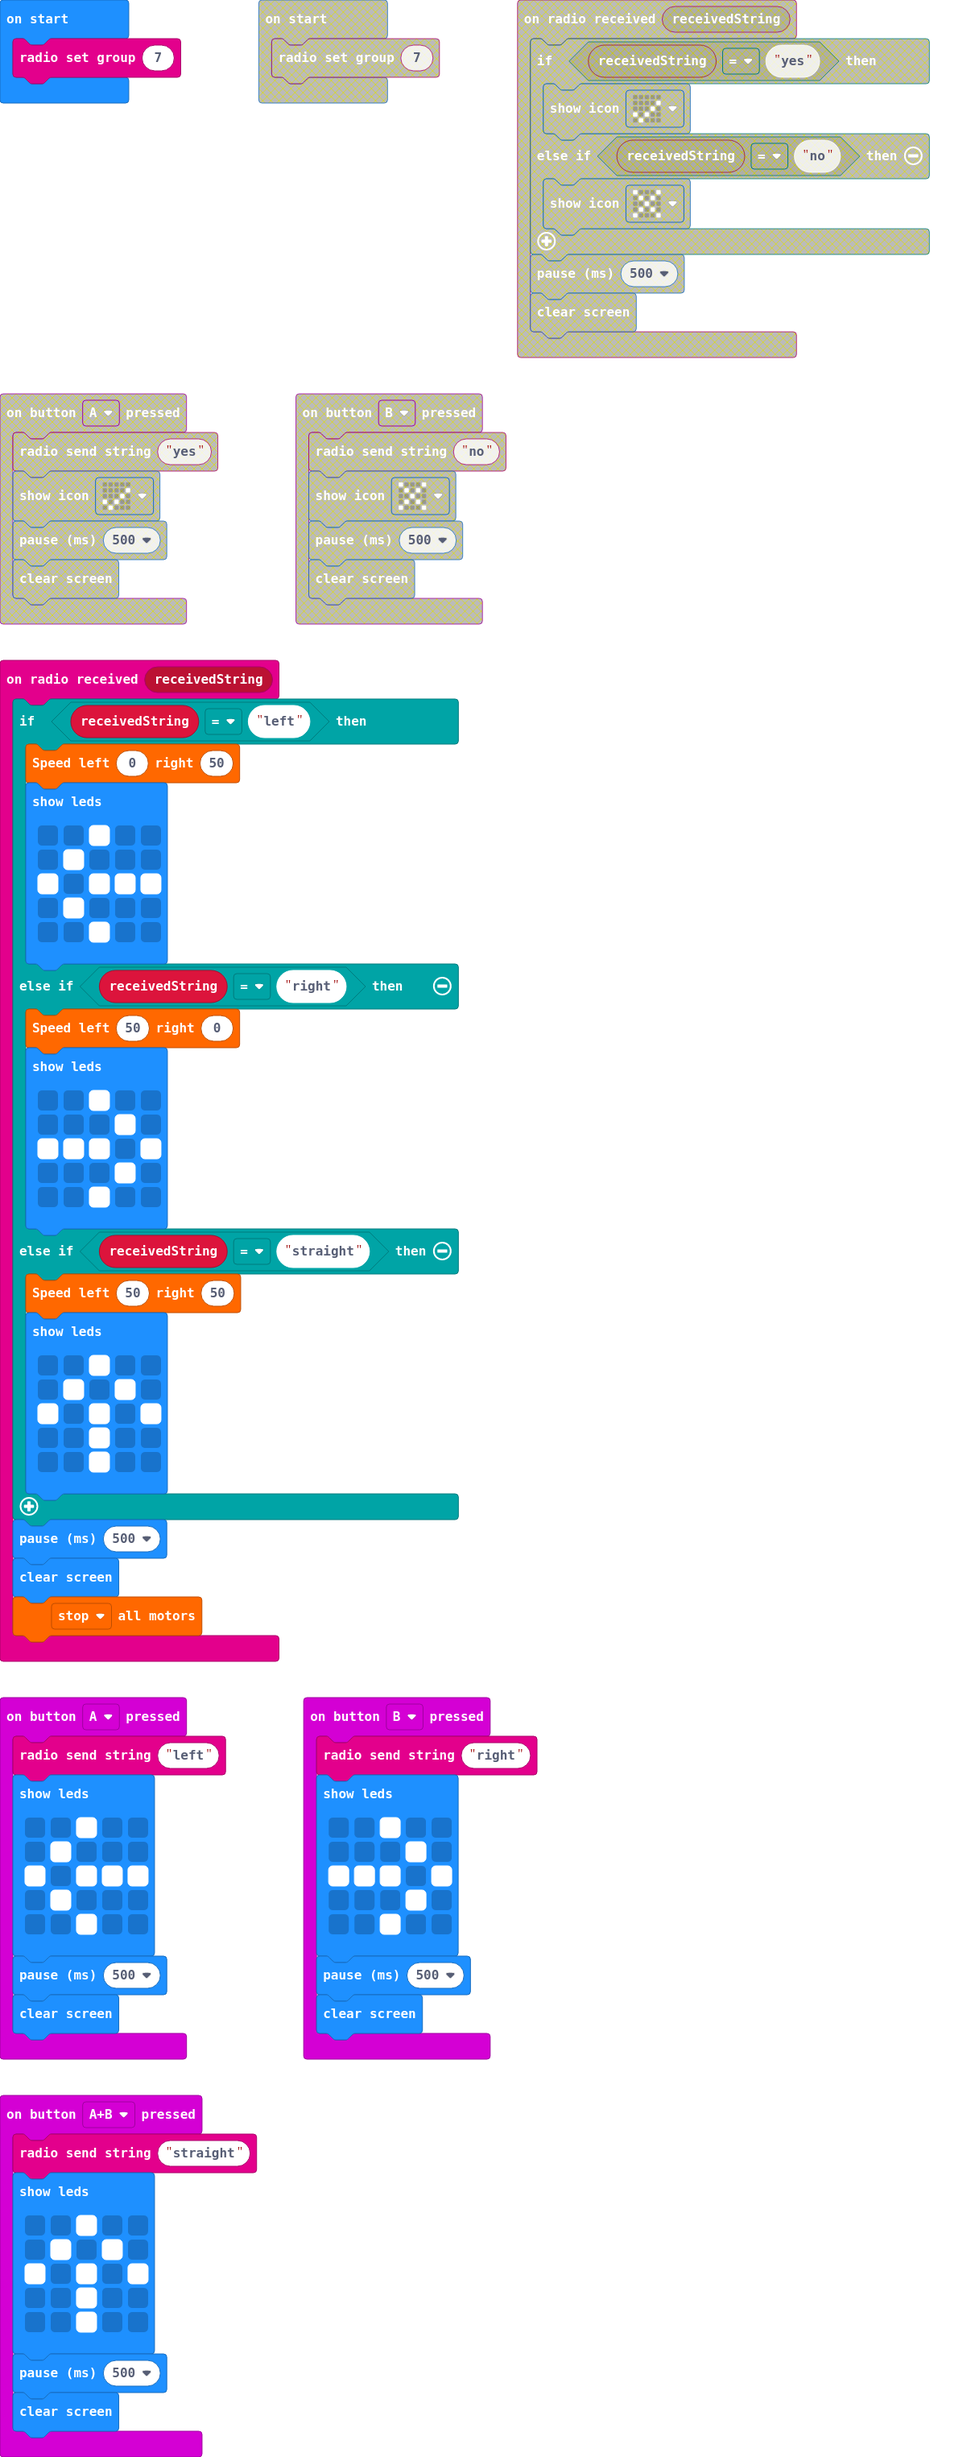
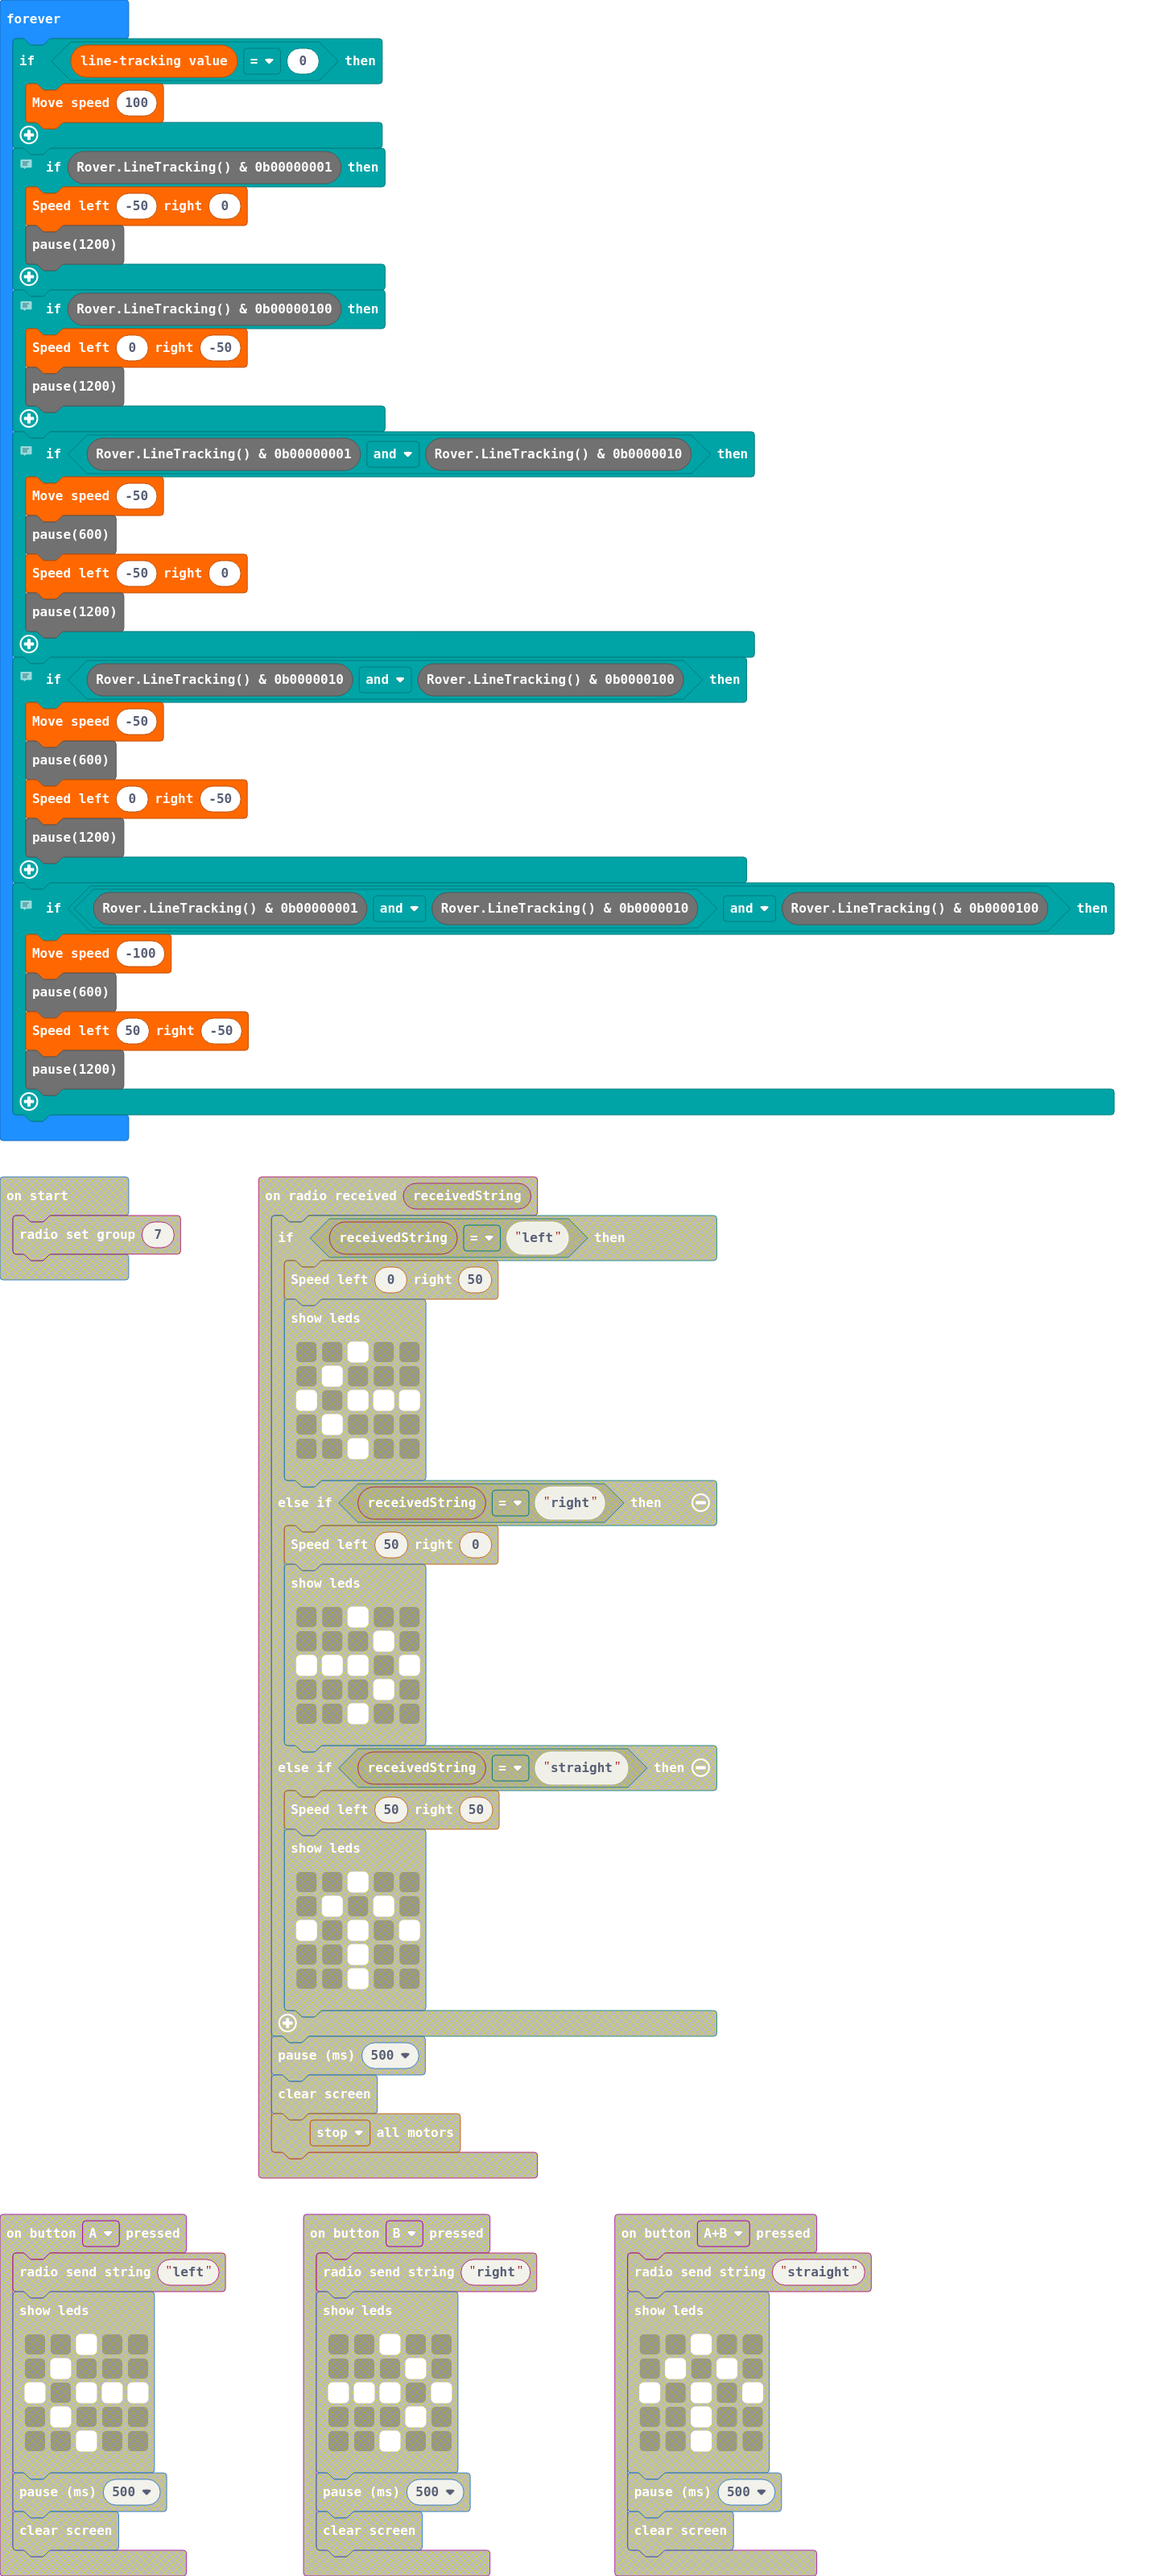
do linetracking

diff --git a/main.ts b/main.ts
@@ -1,70 +1,36 @@
-input.onButtonPressed(Button.A, function () {
-    radio.sendString("left")
-    basic.showLeds(`
-        . . # . .
-        . # . . .
-        # . # # #
-        . # . . .
-        . . # . .
-        `)
-    basic.pause(500)
-    basic.clearScreen()
-})
-input.onButtonPressed(Button.AB, function () {
-    radio.sendString("straight")
-    basic.showLeds(`
-        . . # . .
-        . # . # .
-        # . # . #
-        . . # . .
-        . . # . .
-        `)
-    basic.pause(500)
-    basic.clearScreen()
-})
-radio.onReceivedString(function (receivedString) {
-    if (receivedString == "left") {
-        Rover.MotorRunDual(0, 50)
-        basic.showLeds(`
-            . . # . .
-            . # . . .
-            # . # # #
-            . # . . .
-            . . # . .
-            `)
-    } else if (receivedString == "right") {
-        Rover.MotorRunDual(50, 0)
-        basic.showLeds(`
-            . . # . .
-            . . . # .
-            # # # . #
-            . . . # .
-            . . # . .
-            `)
-    } else if (receivedString == "straight") {
-        Rover.MotorRunDual(50, 50)
-        basic.showLeds(`
-            . . # . .
-            . # . # .
-            # . # . #
-            . . # . .
-            . . # . .
-            `)
+basic.forever(function () {
+    if (Rover.LineTracking() == 0) {
+        Rover.Move(100)
     }
-    basic.pause(500)
-    basic.clearScreen()
-    Rover.MotorStopAll(MotorActions.Stop)
+    // links
+    if (Rover.LineTracking() & 0b00000001) {
+        Rover.MotorRunDual(-50, 0)
+        pause(1200)
+    }
+    // rechts
+    if (Rover.LineTracking() & 0b00000100) {
+        Rover.MotorRunDual(0, -50)
+        pause(1200)
+    }
+    // links, mitte
+    if (Rover.LineTracking() & 0b00000001 && Rover.LineTracking() & 0b0000010) {
+        Rover.Move(-50)
+        pause(600)
+Rover.MotorRunDual(-50, 0)
+        pause(1200)
+    }
+    // rechts, mitte
+    if (Rover.LineTracking() & 0b0000010 && Rover.LineTracking() & 0b0000100) {
+        Rover.Move(-50)
+        pause(600)
+Rover.MotorRunDual(0, -50)
+        pause(1200)
+    }
+    // alle
+    if (Rover.LineTracking() & 0b00000001 && Rover.LineTracking() & 0b0000010 && Rover.LineTracking() & 0b0000100) {
+        Rover.Move(-100)
+        pause(600)
+Rover.MotorRunDual(50, -50)
+        pause(1200)
+    }
 })
-input.onButtonPressed(Button.B, function () {
-    radio.sendString("right")
-    basic.showLeds(`
-        . . # . .
-        . . . # .
-        # # # . #
-        . . . # .
-        . . # . .
-        `)
-    basic.pause(500)
-    basic.clearScreen()
-})
-radio.setGroup(7)
